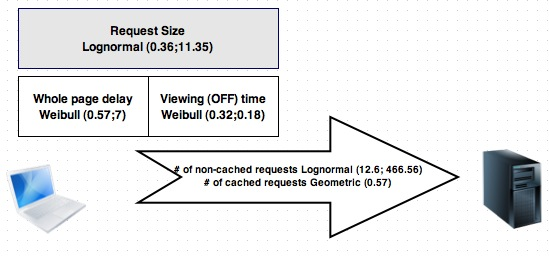
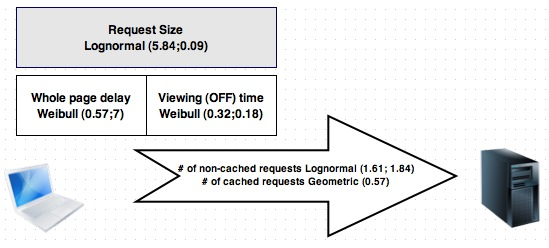
modified:   README.md 	modified:   out.sh 	modified:   req.jpg

diff --git a/homework2/README.md b/homework2/README.md
@@ -95,15 +95,15 @@ For Weibull Distribution we should use parameters α and β.
 
 And the final form for parametrs table is :
 
-	Request size has `Lognormal distribution` with parameters μ=360.4 and σ2=11346.5
-	Object size (main) has `Lognormal distribution` with parameters μ=10709.8 and σ2=626606030.4
-	Object size (in-line) has `Lognormal distribution` with parameters μ=7757.74 and σ2=15918364224
+	Request size has `Lognormal distribution` with parameters μ=5.84 and σ2=0.09
+	Object size (main) has `Lognormal distribution` with parameters μ=8.71 and σ2=1.14
+	Object size (in-line) has `Lognormal distribution` with parameters μ=7.56 and σ2=2.79
 	Parising time has `Gamma distribution` with parameters α=0.5 and β=3.77
 	Number of in-line objects has `Gamma distribution` with parameters α=0.24 and β=0.04
 	In-line inter-arrival time has `Gamma distribution` with parameters α=0.16 and β=0.19
 	Whole page delay has `Weibull Distribution` with parameters α=0.57 and β=7
 	Viewing (OFF) time has `Weibull Distribution` with parameters α=0.32 and β=0.18
-	Number of non-cached Web-requests has `Lognormal distribution` with parameters μ=12.6 and σ2=466.56
+	Number of non-cached Web-requests has `Lognormal distribution` with parameters μ=1.61 and σ2=1.84
 	Number of cached Web-requests has `Geometric distribution` with paramter p=0.57
 
 #### Simulation
@@ -127,3 +127,14 @@ We need to use the following paramers from the table:
 Algorithm can be based on state transition diagram from the article:
 
 ![State diagram](https://github.com/platomik/MIE-SIB/raw/master/homework2/statedia.jpg)
+
+In this algorithm we should use following parameters:
+
+	Main-object size Lognormal(8.71;626606030.4)
+	Parising time Gamma(0.5;3.77)
+	Number of in-line objects Gamma(0.24;0.04)
+	In-line inter-arrival time Gamma(0.16;0.19)
+	Viewing (OFF) time Weibull(0.32;0.18)
+
+
+
